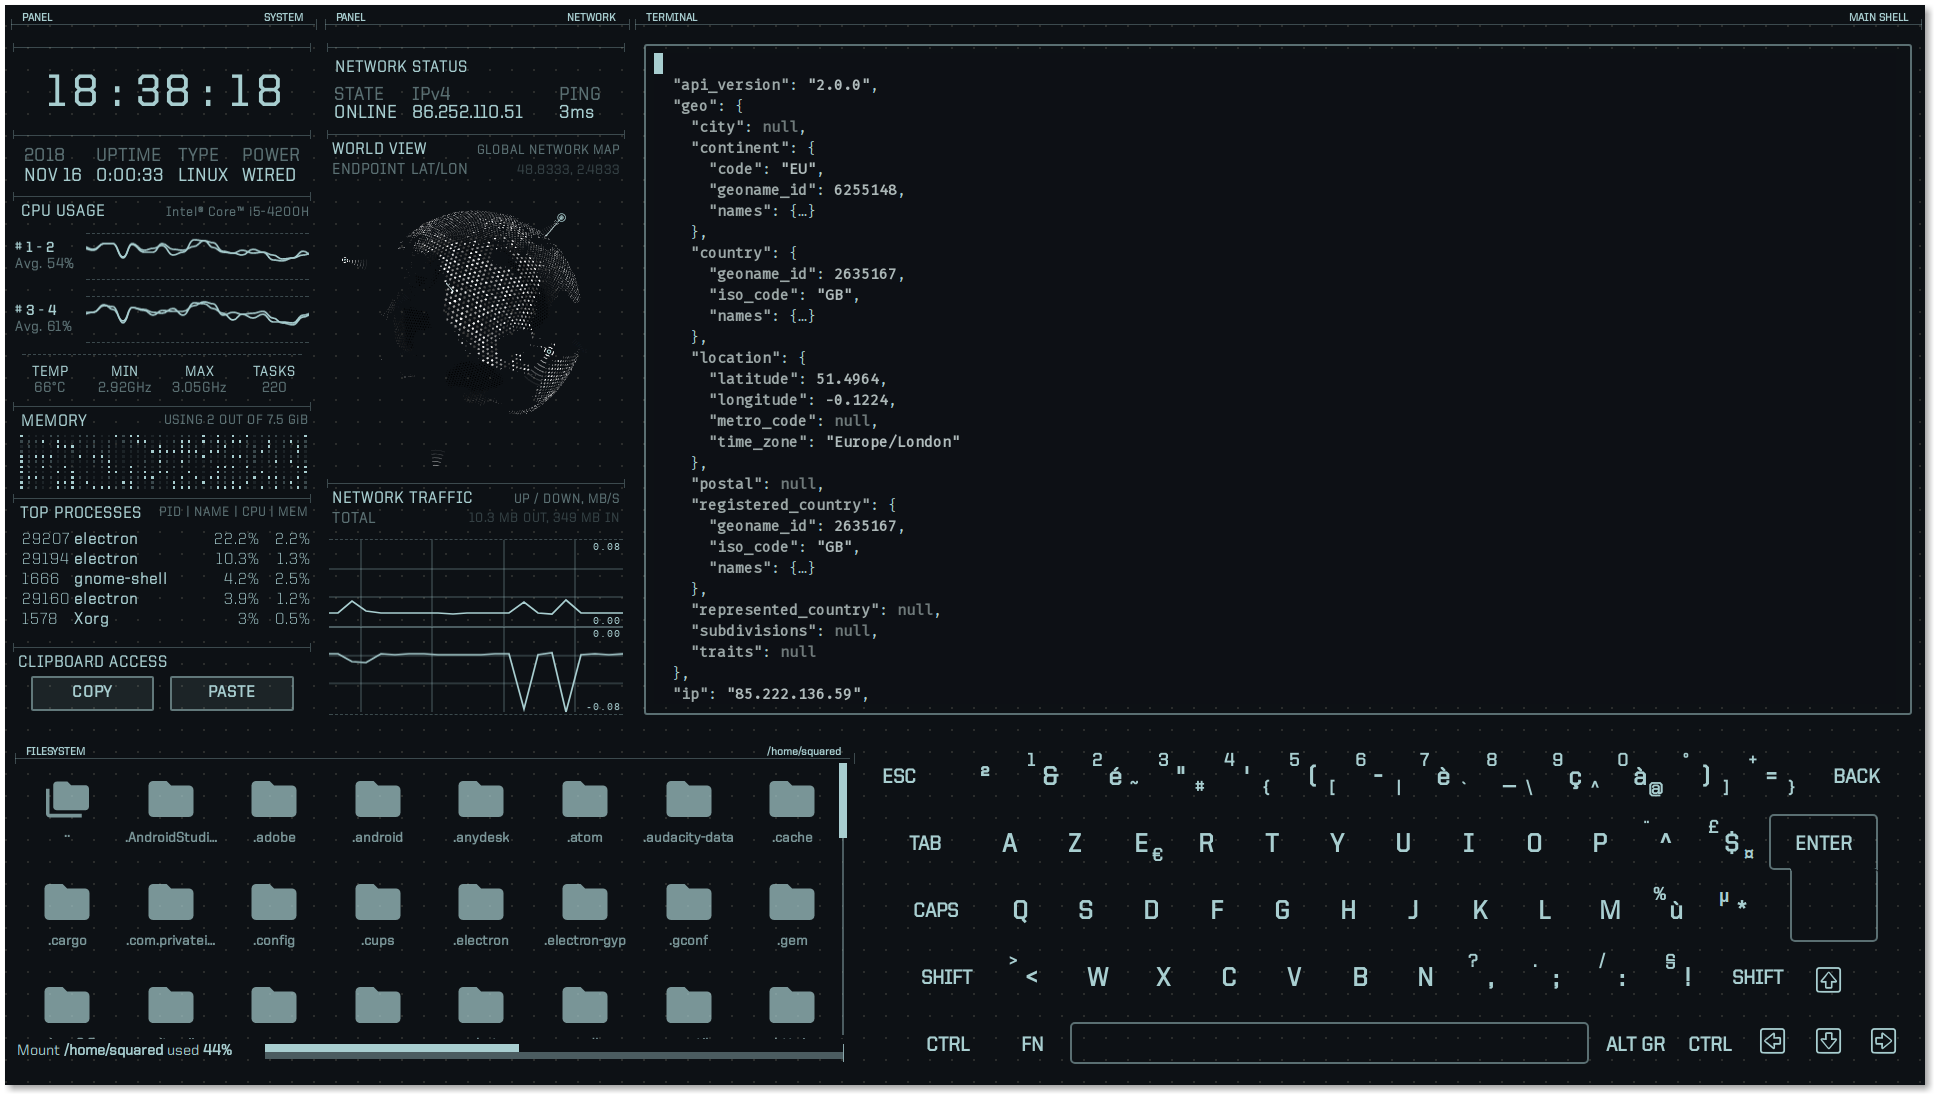
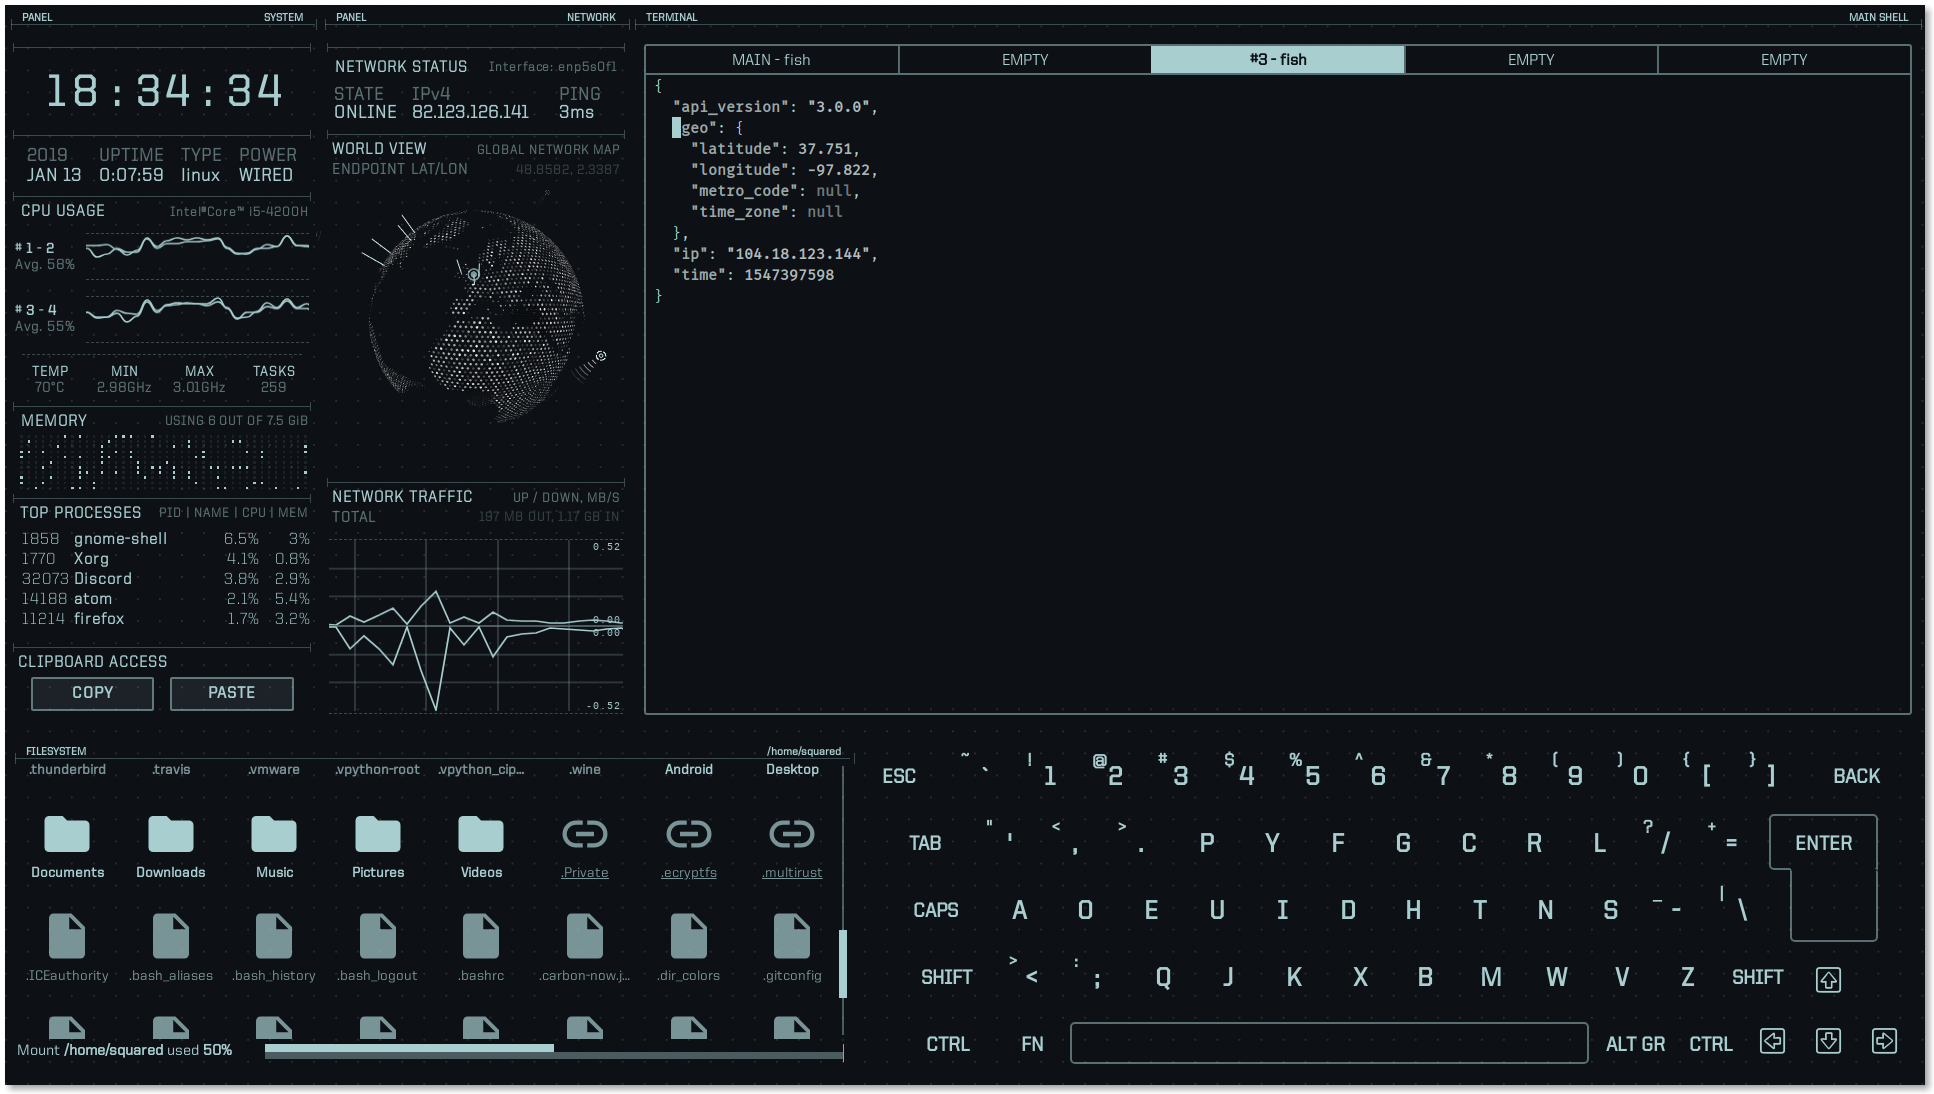
:memo: Update README & screenshots

diff --git a/README.md b/README.md
@@ -9,26 +9,26 @@ Download | Linux & macOS | Windows | Dependencies | Build system | Source
 -------- | ------------- | ------- | ------------ | ------------ | ------
 [![Release Badge](https://badgen.net/github/release/GitSquared/edex-ui)](https://github.com/GitSquared/edex-ui/releases) | [![Build Status](https://travis-ci.org/GitSquared/edex-ui.svg?branch=master)](https://travis-ci.org/GitSquared/edex-ui) | [![Build status](https://ci.appveyor.com/api/projects/status/leb069bro8gwocu7/branch/master?svg=true)](https://ci.appveyor.com/project/GitSquared/edex-ui/branch/master) | [![Dependabot Status](https://api.dependabot.com/badges/status?host=github&repo=GitSquared/edex-ui)](https://dependabot.com) | [![Known Vulnerabilities](https://snyk.io/test/github/GitSquared/edex-ui/badge.svg?targetFile=package.json)](https://snyk.io/test/github/GitSquared/edex-ui?targetFile=package.json) | [![Known Vulnerabilities](https://snyk.io/test/github/GitSquared/edex-ui/badge.svg?targetFile=src%2Fpackage.json)](https://snyk.io/test/github/GitSquared/edex-ui?targetFile=src%2Fpackage.json)
 
-Download 1.1.2: [for Windows](https://github.com/GitSquared/edex-ui/releases/download/v1.1.2/eDEX-UI.Windows.Installer.exe) | [for macOS](https://github.com/GitSquared/edex-ui/releases/download/v1.1.2/eDEX-UI.MacOS.Image.dmg) | [for Linux x32](https://github.com/GitSquared/edex-ui/releases/download/v1.1.2/eDEX-UI.Linux.i386.AppImage) | [for Linux x64](https://github.com/GitSquared/edex-ui/releases/download/v1.1.2/eDEX-UI.Linux.x86_64.AppImage)
+Download 2.0.0: [for Windows](https://github.com/GitSquared/edex-ui/releases/download/v2.0.0/eDEX-UI.Windows.Installer.exe) | [for macOS](https://github.com/GitSquared/edex-ui/releases/download/v2.0.0/eDEX-UI.MacOS.Image.dmg) | [for Linux x32](https://github.com/GitSquared/edex-ui/releases/download/v2.0.0/eDEX-UI.Linux.i386.AppImage) | [for Linux x64](https://github.com/GitSquared/edex-ui/releases/download/v2.0.0/eDEX-UI.Linux.x86_64.AppImage)
 
 eDEX-UI is a fullscreen desktop application resembling a sci-fi computer interface, heavily inspired from [DEX-UI](https://github.com/seenaburns/dex-ui) and the [TRON Legacy movie effects](https://web.archive.org/web/20170511000410/http://jtnimoy.com/blogs/projects/14881671). It runs the shell of your choice in a real terminal, and displays live information about your system. It was made to be used on large touchscreens but will work nicely on a regular desktop computer or perhaps a tablet PC or one of those funky 360° laptops with touchscreens.
 
 I had no ideas for a name so i took DEX-UI and added a "e" for Electron. Deal with it.
 
-([Official ArchLinux AUR package](https://aur.archlinux.org/packages/edex-ui/) maintained by [@JesusCrie](https://github.com/JesusCrie))
+([Official ArchLinux AUR package](https://aur.archlinux.org/packages/edex-ui/) maintained with the help of [@JesusCrie](https://github.com/JesusCrie))
 
 ## Screenshots
 ![Default screenshot](https://github.com/GitSquared/edex-ui/raw/master/media/screenshot_default.png)
 
-_([neofetch](https://github.com/dylanaraps/neofetch) on eDEX-UI 1.0 with the default "tron" theme & QWERTY keyboard)_
+_([neofetch](https://github.com/dylanaraps/neofetch) on eDEX-UI 2.0 with the default "tron" theme & QWERTY keyboard)_
 
-![Blade screenshot](https://github.com/GitSquared/edex-ui/raw/master/media/screenshot_blade.png)
+![Nord screenshot](https://github.com/GitSquared/edex-ui/raw/master/media/screenshot_nord.png)
 
-_([browsh](https://github.com/browsh-org/browsh) showing the results of a DuckDuckGo image search on eDEX-UI 1.0 with the "blade" theme & AZERTY keyboard)_
+_(Graphical settings editor on eDEX-UI 2.0 with the "nord" colorful theme)_
 
 ![Disrupted screenshot](https://github.com/GitSquared/edex-ui/raw/master/media/screenshot_disrupted.png)
 
-_([fx](https://github.com/antonmedv/fx) showing the results of a [ipapi](https://github.com/GitSquared/ipapi) query on eDEX-UI 1.0 with the experimental "tron-disrupted" theme, and the French AZERTY keyboard)_
+_([fx](https://github.com/antonmedv/fx) showing the results of a [ipapi](https://github.com/GitSquared/ipapi) query on eDEX-UI 2.0 with the experimental "tron-disrupted" theme, and the user-contributed DVORAK keyboard)_
 
 ## Q&A
 #### What OS can this thing run on?
